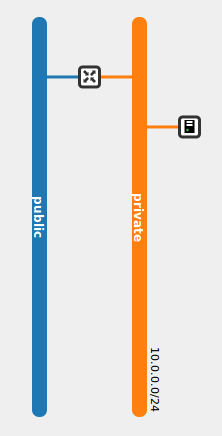
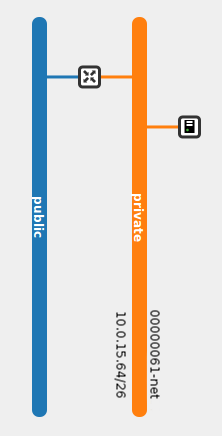
Demo1

Changed region(s): [[0.6757, 0.6858, 0.7297, 0.9541], [0.5135, 0.7156, 0.5676, 0.9243]]

diff --git a/curso/u4/demo1.md b/curso/u4/demo1.md
@@ -5,4 +5,42 @@ menu:
   - Unidad 4
 ---
 
-## Demostración 1:
+## Demostración 1: Creación de red y subred.
+
+El esquema de red por defecto que nos encontramos en nuestro proyecto esta definido por un router conectado a la red externa, y una red interna donde se conectan las instancias. Podríamos resumirlo en el siguiente esquema:
+
+![red](img/red1.png)
+
+En esta demostración vamos a crear una nueva red, una nueva subred y un nuevo router. El router estará conectado a la red externa y a la nueva red creada. El esquema de red sería el siguiente:
+
+![red](img/red3.png)
+
+1. En el apartado **Administrador de redes** vamos a crear una nueva red.
+
+	![red](img/net1.png)
+
+2. A continuación seleccionamos la red creada y creamos una subred. Los datos que podemos introducir en esta pantalla son los siguientes:
+
+
+   	* Nombrere de la Subred: El usuario deberá indicar un nombre a proporcionarle a la subred.
+	* Dirección de red: Se debe introducir un CIDR válido, el cual indicará un bloque de direcciones IPs.
+	* Principio de rango: Indica el principio de las direcciones IPs que se utilizarán para asignar IPs a los servidores virtuales. Esta dirección debe pertenecer a las direcciones del CIDR. Debe ser menor que la IP especificada en Final de Rango.
+	* Final de rango: Indica el final de las direcciones IPs que se utilizarán para asignar IPs a los servidores virtuales. Esta dirección debe pertenecer a las direcciones del CIDR. Debe ser mayor que la IP especificada en Principio de Rango.
+	* Gateway IP: Dirección IP que especificamos para la puerta de enlace. Debe pertenecer a las direcciones del CIDR. Si se especifica este valor tenemos que comprobar que esta dirección no se superpone a alguna dirección del pool de direcciones.
+	* Servidores DNS : El usuario puede especificar una lista de dns. Este campo se introduce separado por comas.
+	* Versión IP: Se especifica la versión de las direcciones IPs.
+	* DHCP habilitado: Especificamos si queremos que el DHCP este activo.
+
+	![red](img/net2.png)
+
+3. A continuación vamos a crear un router, podemos también indicar si va a estar conectado a la red externa.
+
+	![red](img/net3.png)
+
+4. A continuación vamos a conectar la nueva red al router que hemos creado, para ello seleccionamos la subred y escogemos la opción **Enlazar subred**.
+
+	![red](img/net4.png)
+
+5. Podemos comprobar en la lista de puertos que nuestro router esta conectado a nuestra nueva red.
+
+	![red](img/net7.png)

diff --git a/curso/u4/practica.md b/curso/u4/practica.md
@@ -1,8 +1,8 @@
 ---
 layout: blog
-tittle: Utilización de OpenStack (3), redes
+tittle: Utilización de OpenStack (3). Redes
 menu:
   - Unidad 4
 ---
 
-## Práctica:
+## Práctica: 
